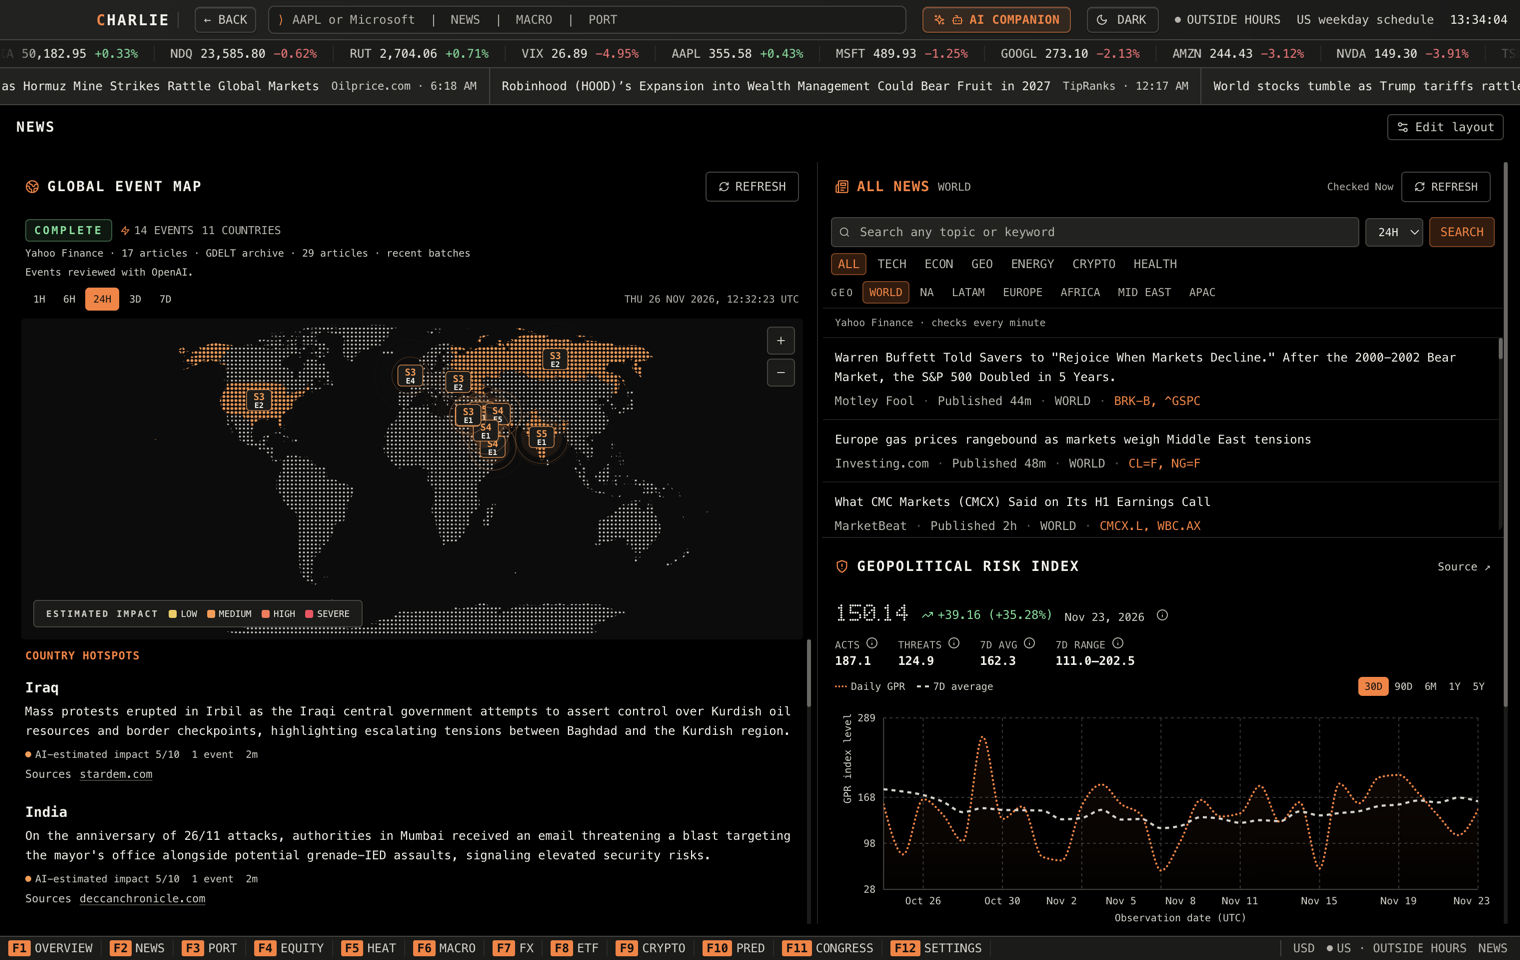
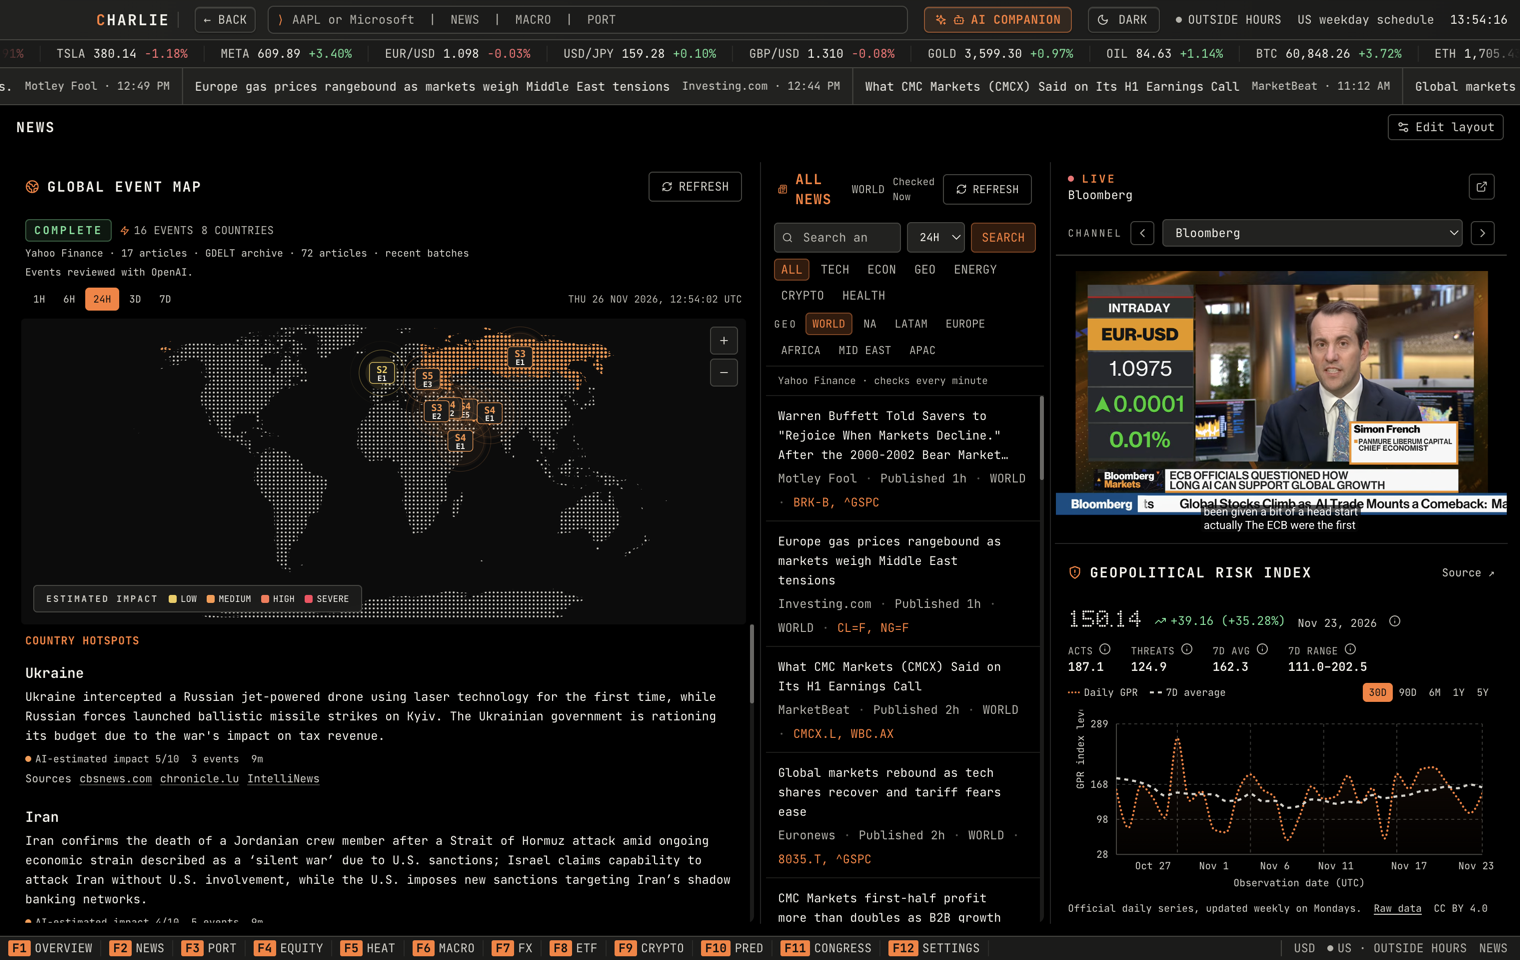
Show the live player in the News workspace gallery

diff --git a/README.md b/README.md
@@ -12,7 +12,7 @@ Charlie is a desktop market research app. Build a dashboard around your portfoli
 
 | News and geopolitics | Macroeconomics |
 | --- | --- |
-| ![News headlines, global event map, and geopolitical risk](docs/screenshots/news-geopolitics.png) | ![Economic indicators and their historical trends in Macro](docs/screenshots/macro.png) |
+| ![News workspace with the global event map on the left, headlines in the center, and the live TV player above the geopolitical risk chart on the right](docs/screenshots/news-geopolitics.png) | ![Economic indicators and their historical trends in Macro](docs/screenshots/macro.png) |
 
 | Equity research | Equity chart |
 | --- | --- |
